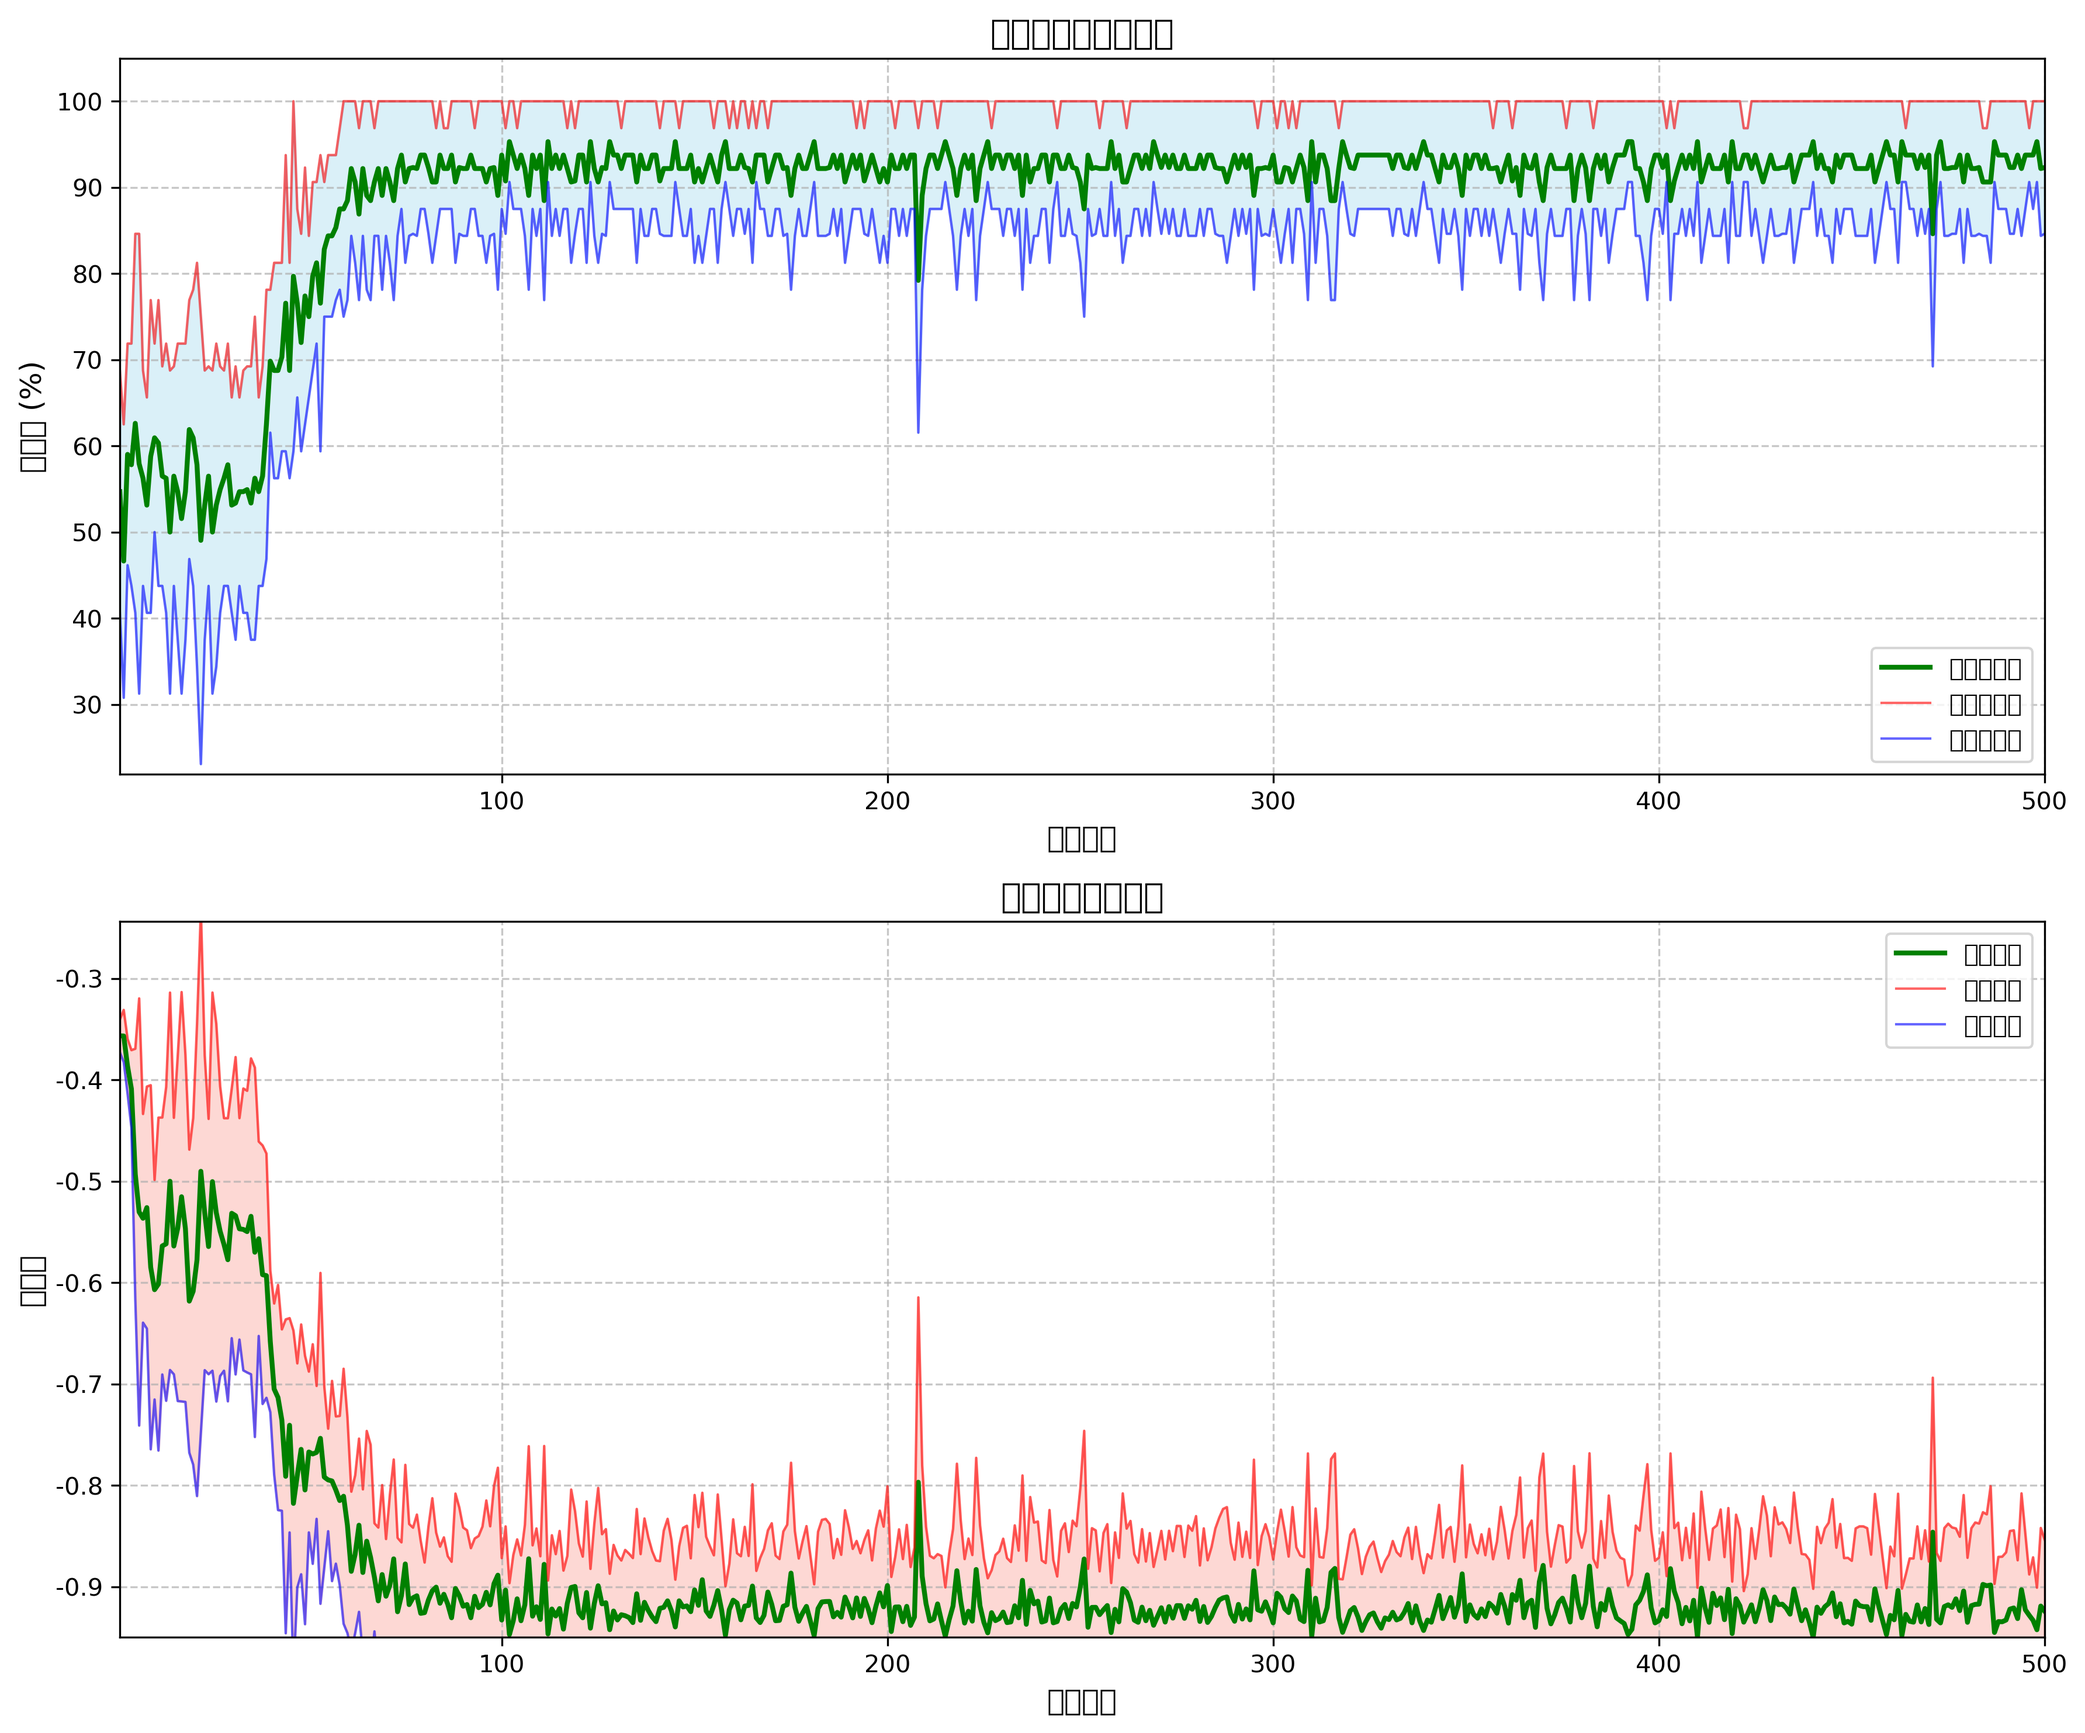
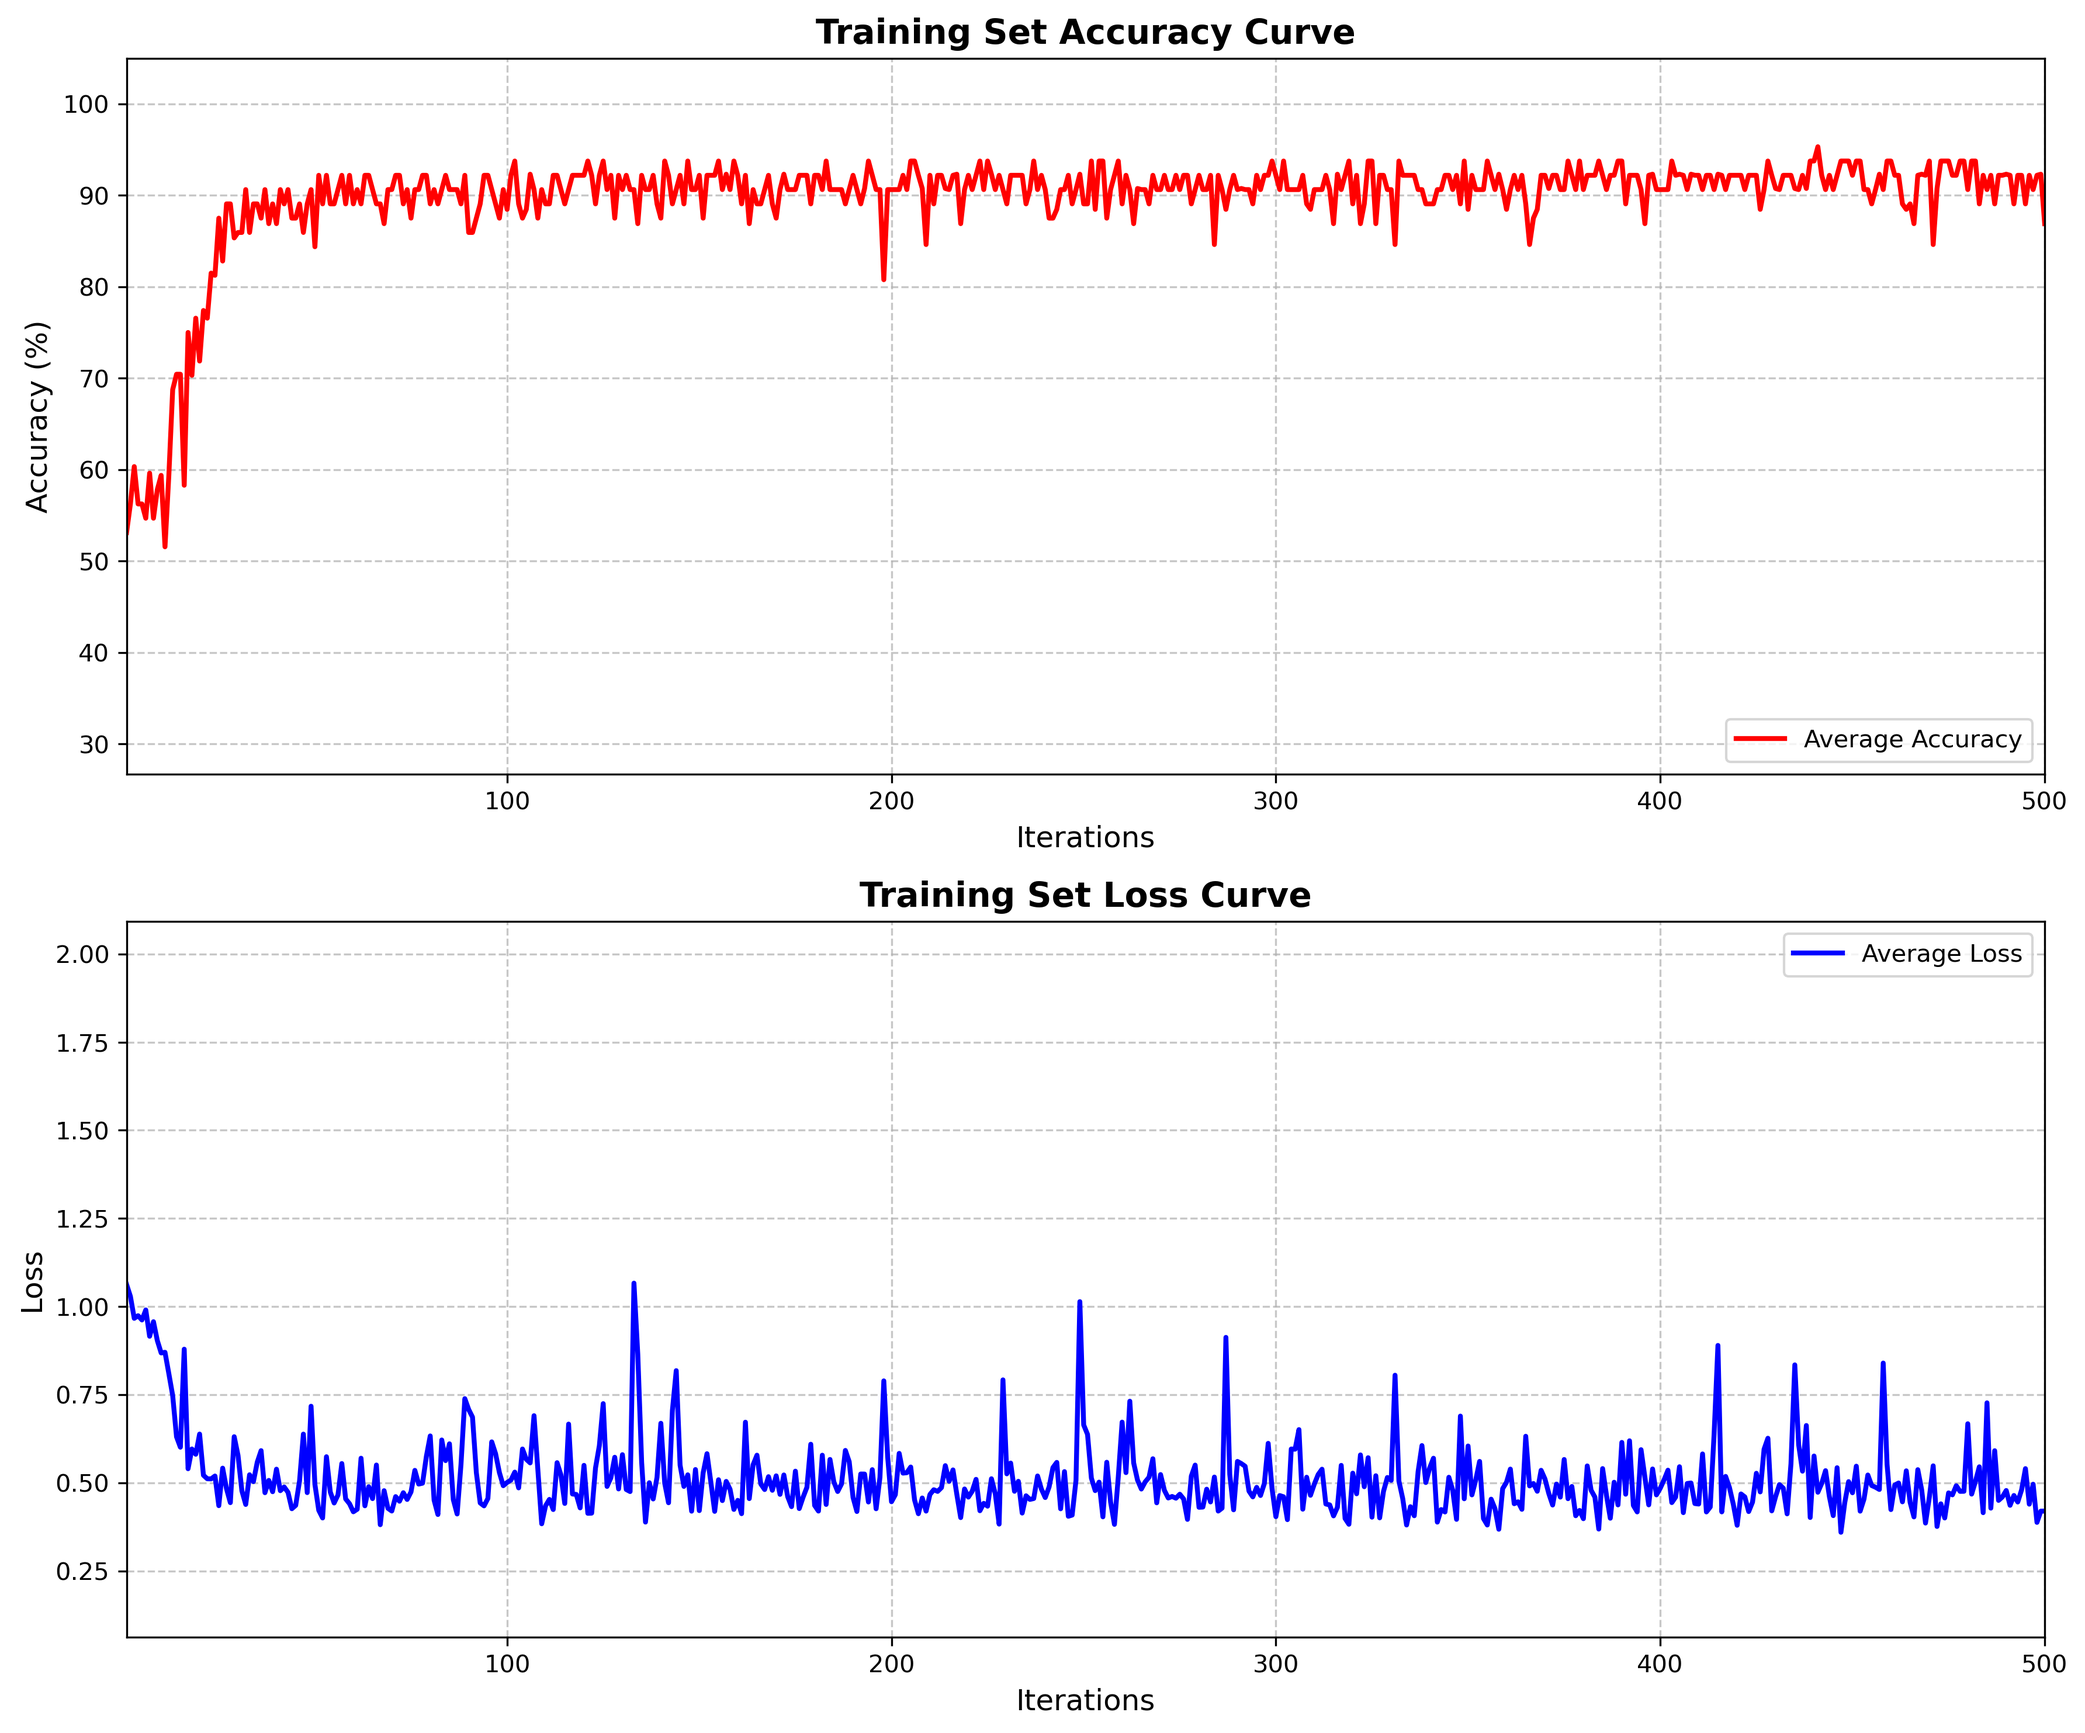
save best result

diff --git a/main.py b/main.py
@@ -29,7 +29,16 @@ from model import BiGRUAttentionModel
 from polygon_area_metric import polygon_area_metric
 
 # Set seeds for reproducibility
-def set_seed(seed=42):
+def set_seed(seed=9365):
+    if seed is None:
+        # Generate a random seed between 1 and 10000
+        seed = random.randint(1, 10000)
+        
+    # Print the seed for future reproducibility
+    print(f"\nUsing random seed: {seed}")
+    print(f"To reproduce experimental results, use the same seed value.")
+    
+    # Set seeds for all libraries
     random.seed(seed)
     np.random.seed(seed)
     torch.manual_seed(seed)
@@ -38,48 +47,49 @@ def set_seed(seed=42):
         torch.cuda.manual_seed_all(seed)
     torch.backends.cudnn.deterministic = True
     torch.backends.cudnn.benchmark = False
+    
+    return seed
 
 # Define a function to plot training progress
 def plot_training_progress(train_losses_min, train_losses_max, train_accuracies_min, train_accuracies_max):
-    # 设置中文字体支持
-    plt.rcParams['font.sans-serif'] = ['SimHei', 'DejaVu Sans', 'Arial']
-    plt.rcParams['axes.unicode_minus'] = False  # 正确显示负号
+    # # Set Chinese font support
+    # plt.rcParams['font.sans-serif'] = ['SimHei', 'DejaVu Sans', 'Arial']
+    # plt.rcParams['axes.unicode_minus'] = False  # Correctly display negative signs
     
     fig, (ax1, ax2) = plt.subplots(2, 1, figsize=(12, 10))
     
-    # 计算均值用于绘制
+    # Calculate means for plotting
     train_accuracies_mean = [(min_val + max_val) / 2 for min_val, max_val in zip(train_accuracies_min, train_accuracies_max)]
     train_losses_mean = [(min_val + max_val) / 2 for min_val, max_val in zip(train_losses_min, train_losses_max)]
     
     # Plot accuracy with fill between min and max values
     iterations = range(1, len(train_accuracies_min) + 1)
-    ax1.plot(iterations, train_accuracies_mean, 'g-', linewidth=2, label='平均准确率')
-    ax1.plot(iterations, train_accuracies_max, 'r-', linewidth=1, alpha=0.6, label='最大准确率')
-    ax1.plot(iterations, train_accuracies_min, 'b-', linewidth=1, alpha=0.6, label='最小准确率')
-    ax1.fill_between(iterations, train_accuracies_min, train_accuracies_max, color='skyblue', alpha=0.3)
-    ax1.set_xlabel('迭代次数', fontsize=12)
-    ax1.set_ylabel('准确率 (%)', fontsize=12)
-    ax1.set_title('训练准确率变化范围', fontsize=14, fontweight='bold')
+    ax1.plot(iterations, train_accuracies_mean, 'r-', linewidth=2, label='Average Accuracy')
+    # ax1.plot(iterations, train_accuracies_max, 'r-', linewidth=1, alpha=0.6)
+    # ax1.plot(iterations, train_accuracies_min, 'r-', linewidth=1, alpha=0.6)
+    # ax1.fill_between(iterations, train_accuracies_min, train_accuracies_max, color='red', alpha=0.3)
+    ax1.set_xlabel('Iterations', fontsize=12)
+    ax1.set_ylabel('Accuracy (%)', fontsize=12)
+    ax1.set_title('Training Set Accuracy Curve', fontsize=14, fontweight='bold')
     ax1.legend(loc='lower right', fontsize=10)
     ax1.grid(True, linestyle='--', alpha=0.7)
     ax1.set_xlim(1, len(train_accuracies_min))
-    # 设置y轴范围，让填充区域更明显
     min_acc = min(train_accuracies_min) * 0.95
     max_acc = max(train_accuracies_max) * 1.05
     ax1.set_ylim(min_acc, max_acc)
     
     # Plot loss with fill between min and max values
-    ax2.plot(iterations, train_losses_mean, 'g-', linewidth=2, label='平均损失')
-    ax2.plot(iterations, train_losses_max, 'r-', linewidth=1, alpha=0.6, label='最大损失')
-    ax2.plot(iterations, train_losses_min, 'b-', linewidth=1, alpha=0.6, label='最小损失')
-    ax2.fill_between(iterations, train_losses_min, train_losses_max, color='salmon', alpha=0.3)
-    ax2.set_xlabel('迭代次数', fontsize=12)
-    ax2.set_ylabel('损失值', fontsize=12)
-    ax2.set_title('训练损失变化范围', fontsize=14, fontweight='bold')
+    ax2.plot(iterations, train_losses_mean, 'b-', linewidth=2, label='Average Loss')
+    # ax2.plot(iterations, train_losses_max, 'b-', linewidth=1, alpha=0.6)
+    # ax2.plot(iterations, train_losses_min, 'b-', linewidth=1, alpha=0.6)
+    # ax2.fill_between(iterations, train_losses_min, train_losses_max, color='blue', alpha=0.3)
+    ax2.set_xlabel('Iterations', fontsize=12)
+    ax2.set_ylabel('Loss', fontsize=12)
+    ax2.set_title('Training Set Loss Curve', fontsize=14, fontweight='bold')
     ax2.legend(loc='upper right', fontsize=10)
     ax2.grid(True, linestyle='--', alpha=0.7)
     ax2.set_xlim(1, len(train_losses_min))
-    # 设置y轴范围，让填充区域更明显
+    # Set y-axis range to make the fill area more visible
     min_loss = min(train_losses_min) * 0.95
     max_loss = max(train_losses_max) * 1.05
     ax2.set_ylim(min_loss, max_loss)
@@ -177,34 +187,34 @@ def plot_roc_curve_multi(y_true, y_pred, n_classes):
     plt.savefig('roc_curve.png', dpi=300, bbox_inches='tight')
     plt.close()
 
-# 添加简单的模型可视化函数
+# Add a simple model visualization function
 def visualize_model(model, input_shape, filename='model_visualization.png'):
     """
-    使用torchviz生成简单的模型结构可视化并保存到文件
+    Use torchviz to generate a simple model structure visualization and save it to a file
     
-    参数:
-    model: PyTorch模型
-    input_shape: 输入的形状，例如(batch_size, input_dim)
-    filename: 保存的文件名
+    Parameters:
+    model: PyTorch model
+    input_shape: Input shape, e.g., (batch_size, input_dim)
+    filename: Name of the file to save
     """
         
-    # 创建一个示例输入
+    # Create a sample input
     device = next(model.parameters()).device
     x = torch.randn(input_shape).to(device)
     
-    # 获取模型输出
+    # Get model output
     y = model(x)
     
-    # 创建计算图可视化
+    # Create computational graph visualization
     dot = make_dot(y, params=dict(list(model.named_parameters())))
     
-    # 设置图形格式和大小
-    dot.attr('graph', rankdir='TB', size='12,12')  # 从上到下的布局，设置大小
+    # Set graph format and size
+    dot.attr('graph', rankdir='TB', size='12,12')  # Top-to-bottom layout, set size
     dot.attr('node', shape='box', style='filled', color='lightblue')
     
-    # 渲染并保存图像
+    # Render and save the image
     dot.render(filename.replace('.png', ''), format='png', cleanup=True)
-    print(f"模型可视化已保存到: {filename}")
+    print(f"Model visualization saved to: {filename}")
     return True
 
 def main():
@@ -214,8 +224,8 @@ def main():
     # Clear plots, etc.
     plt.close('all')
     
-    # Set seed for reproducibility
-    set_seed(42)
+    # Set seed for reproducibility with a random value
+    random_seed = set_seed()
     
     # CUDA settings
     device = torch.device('cuda' if torch.cuda.is_available() else 'cpu')
@@ -233,16 +243,16 @@ def main():
         if data.shape[1] < 2:
             raise ValueError(f"Data must have at least 2 columns (features + labels). Found {data.shape[1]} columns")
             
-        # 创建标签映射字典，确保顺序：Normalcy -> 0, Warning -> 1, Malfunction -> 2
+        # Create label mapping dictionary, ensuring order: Normalcy -> 0, Warning -> 1, Malfunction -> 2
         label_order = ['Normalcy', 'Warning', 'Malfunction']
         label_map = {label: idx for idx, label in enumerate(label_order)}
-        # 创建反向映射字典
+        # Create reverse mapping dictionary
         reverse_label_map = {idx: label for label, idx in label_map.items()}
         print("\nLabel mapping:")
         for label, idx in label_map.items():
             print(f"{label} -> {idx}")
             
-        # 将标签转换为数字
+        # Convert labels to numbers
         data[:, -1] = np.array([label_map[label] for label in data[:, -1]])
             
     except FileNotFoundError:
@@ -333,12 +343,12 @@ def main():
     # Print model summary
     print(model)
     
-    # 添加模型可视化 - 在模型初始化后调用
-    print("\n生成模型可视化...")
+    # Add model visualization - called after model initialization
+    print("\nGenerating model visualization...")
     visualize_model(model, input_shape=(1, num_dim), filename='model_visualization.png')
     
     # Define loss function and optimizer
-    criterion = nn.NLLLoss() # Model already has a softmax layer
+    criterion = nn.CrossEntropyLoss()
 
     optimizer = optim.Adam(
         model.parameters(),
@@ -366,7 +376,7 @@ def main():
         correct = 0
         total = 0
         
-        # 用于记录每个epoch内的batch统计数据
+        # For recording batch statistics within each epoch
         batch_losses = []
         batch_accuracies = []
         
@@ -385,7 +395,7 @@ def main():
             optimizer.step()
             
             # Calculate metrics for this batch
-            batch_loss = loss.item()  # 单个批次的损失（不乘以batch size）
+            batch_loss = loss.item()  # Single batch loss (not multiplied by batch size)
             batch_losses.append(batch_loss)
             
             _, predicted = torch.max(outputs, 1)
@@ -394,22 +404,22 @@ def main():
             batch_accuracy = 100 * batch_correct / batch_total
             batch_accuracies.append(batch_accuracy)
             
-            # 累计总体统计
-            epoch_loss += batch_loss * inputs.size(0)  # 累计损失需要考虑batch大小
+            # Accumulate overall statistics
+            epoch_loss += batch_loss * inputs.size(0)  # Accumulated loss needs to consider batch size
             total += batch_total
             correct += batch_correct
         
         # Update learning rate
         scheduler.step()
         
-        # 如果这个epoch有多个batch，记录最大和最小值
+        # If this epoch has multiple batches, record max and min values
         if len(batch_losses) > 0:
             train_losses_min.append(min(batch_losses))
             train_losses_max.append(max(batch_losses))
             train_accuracies_min.append(min(batch_accuracies))
             train_accuracies_max.append(max(batch_accuracies))
         else:
-            # 如果只有一个batch（不太可能），则添加一些变化以便于可视化
+            # If there's only one batch (unlikely), add some variation for visualization
             avg_loss = epoch_loss / len(train_dataset)
             avg_accuracy = 100 * correct / total
             train_losses_min.append(avg_loss * 0.95)
@@ -417,7 +427,7 @@ def main():
             train_accuracies_min.append(avg_accuracy * 0.95)
             train_accuracies_max.append(avg_accuracy * 1.05)
         
-        # 计算平均损失和准确率（仅用于日志输出）
+        # Calculate average loss and accuracy (only for log output)
         avg_epoch_loss = epoch_loss / len(train_dataset)
         avg_accuracy = 100 * correct / total
         

diff --git a/model.py b/model.py
@@ -81,9 +81,6 @@ class BiGRUAttentionModel(nn.Module):
         # Fully connected layer
         self.fc = nn.Linear(2*hidden_dim, num_classes)
         
-        # Softmax layer
-        self.soft = nn.Softmax(dim=1)
-        
     def forward(self, x):
         # X shape: (batch_size, input_dim) or (batch_size, seq_len, input_dim)
         
@@ -112,8 +109,5 @@ class BiGRUAttentionModel(nn.Module):
         
         # Apply fully connected layer to the concatenated hidden states
         fc_out = self.fc(attention_out)
-
-        # # Apply softmax to the output
-        output = self.soft(fc_out)
         
-        return output 
+        return fc_out 
